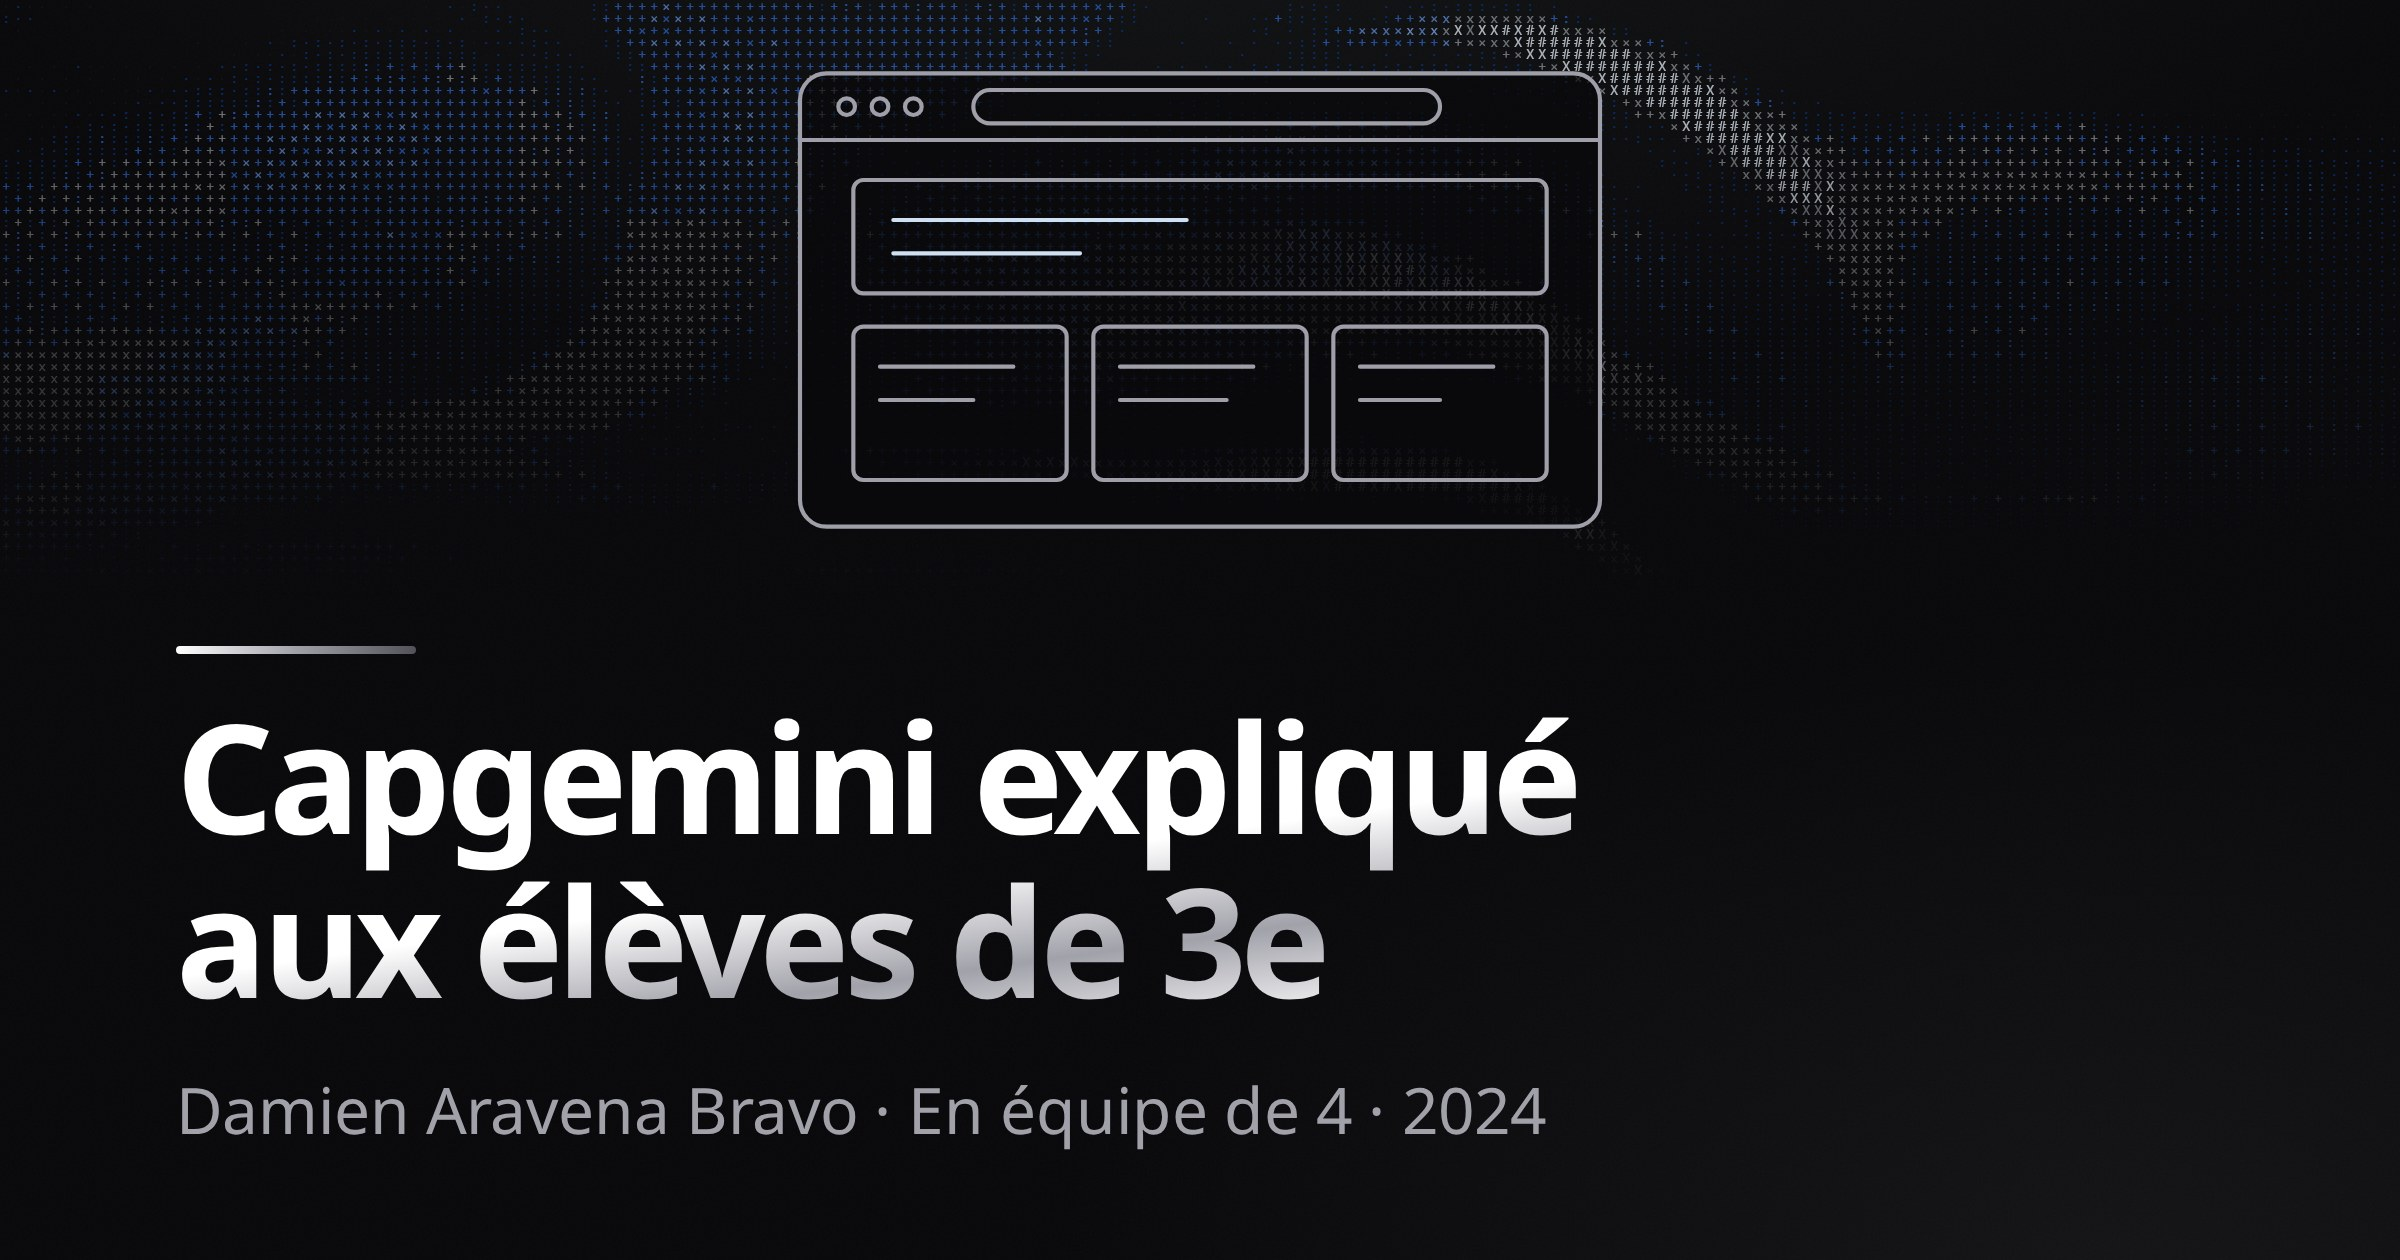
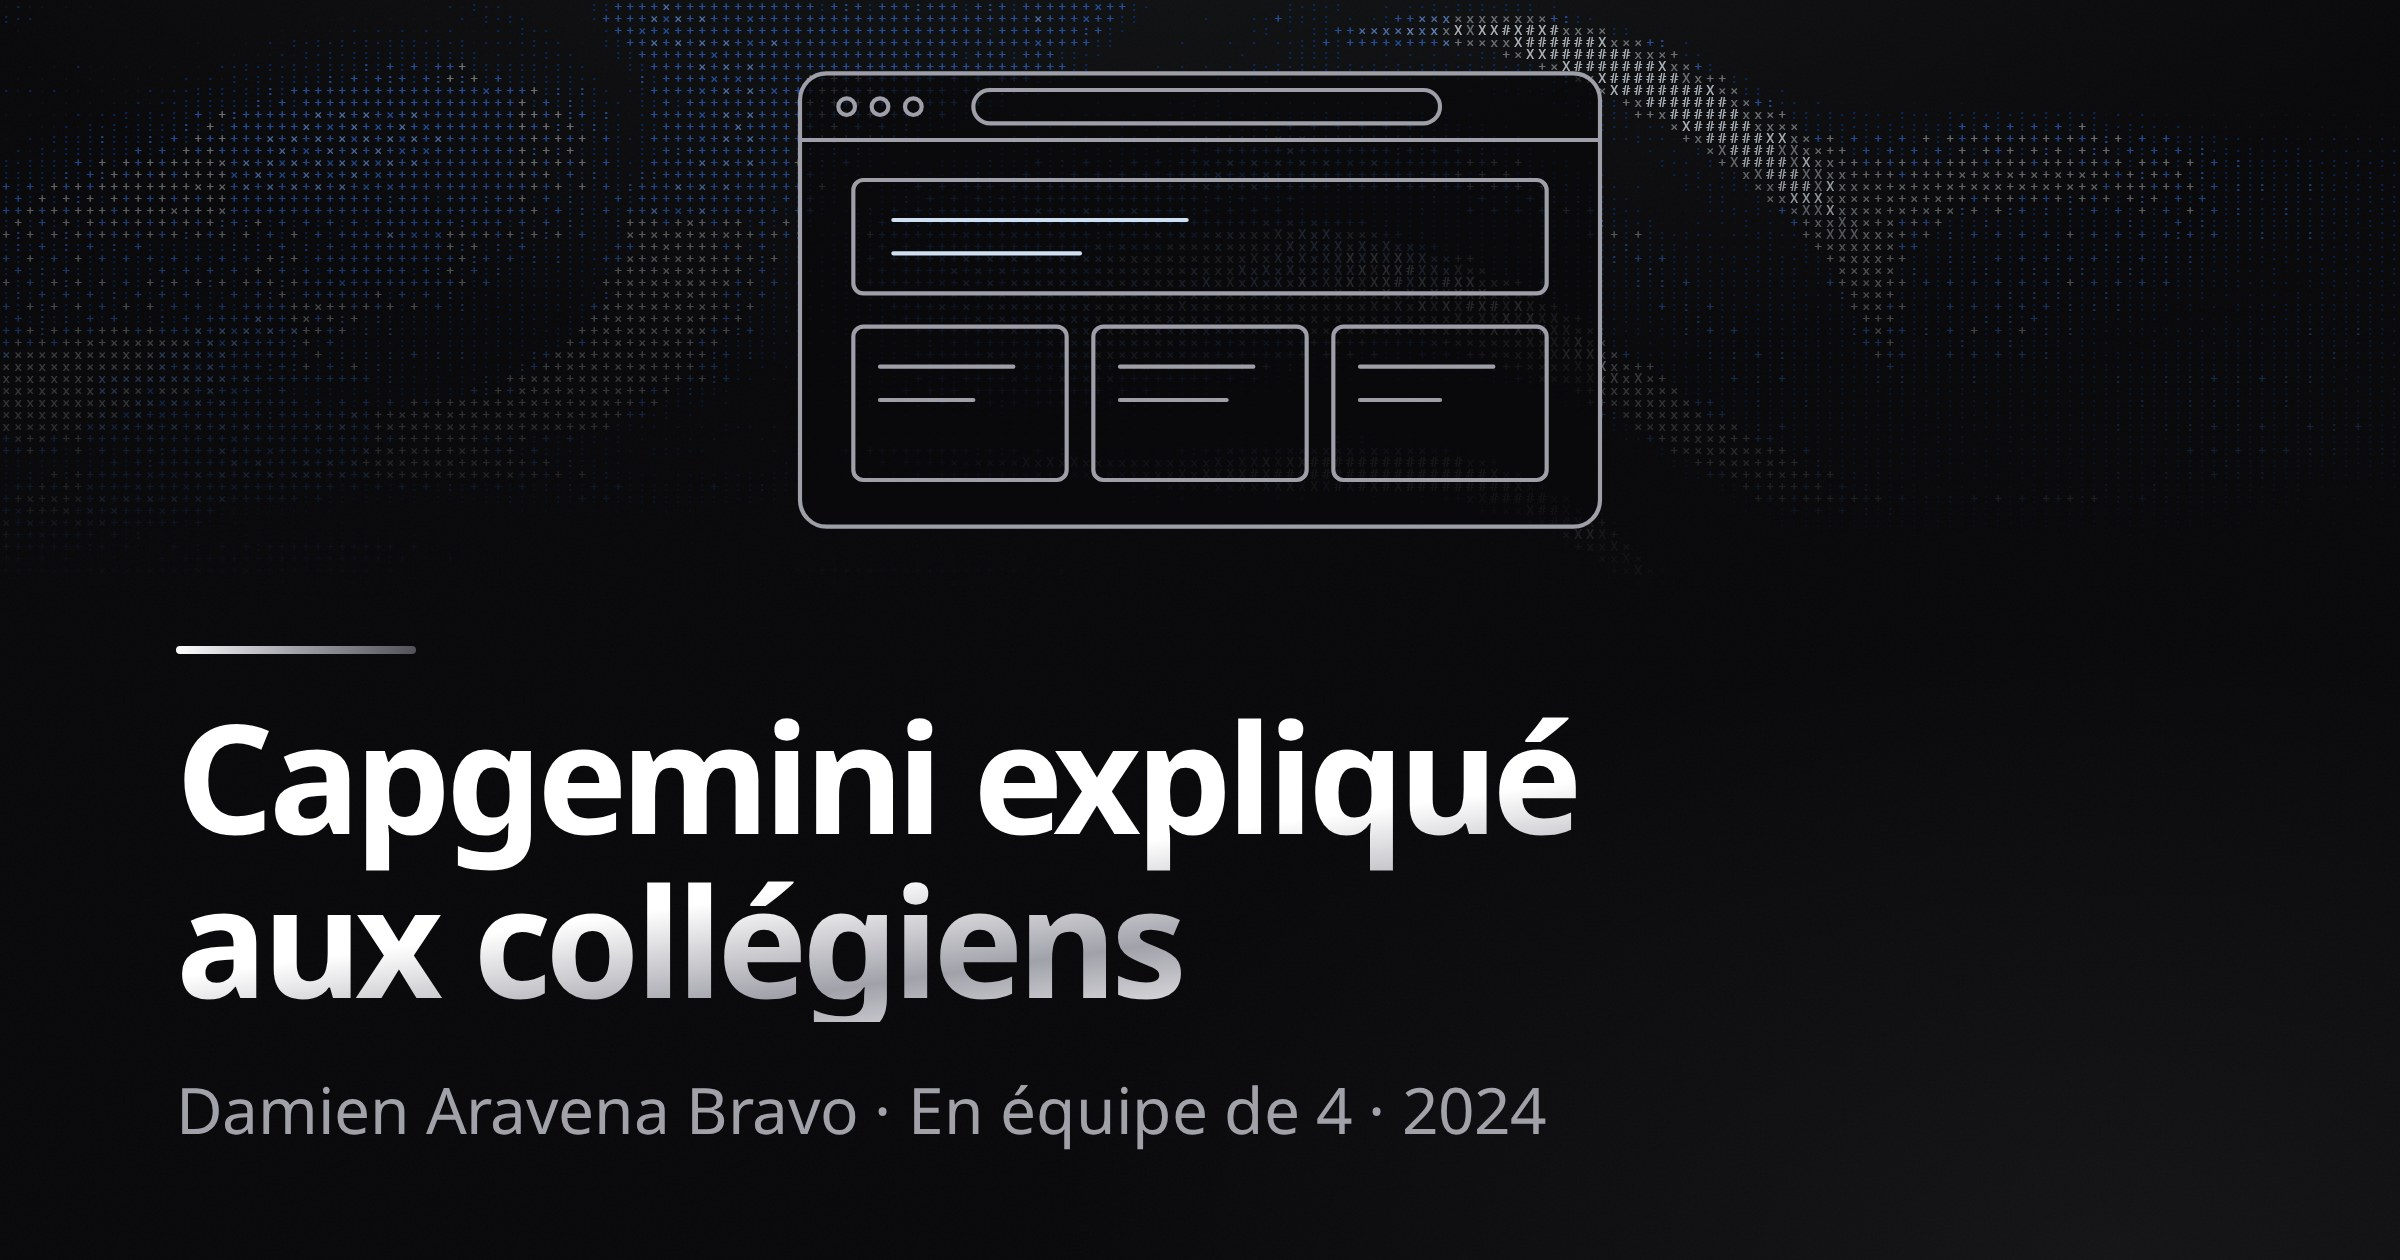
fix(content): use vous throughout and tidy the French wording
- Address the reader as vous in the contact section too ("Écrivez-moi"),
  like the legal, accessibility and colophon pages.
- Write ordinals in full ("deuxième année"); the Capgemini page becomes
  "Capgemini expliqué aux collégiens".
- Replace "mitigation" with "atténuation" and capitalise BUT Informatique.
- Name the footer link like the page it opens ("Comment ce site est fait",
  "How this site is built").
- Give the home projects section a description that stands on its own.

Changed region(s): [[0.1875, 0.681, 0.5625, 0.8357]]

diff --git a/src/data/ui.ts b/src/data/ui.ts
@@ -79,11 +79,11 @@ const fr = {
       {
         label: "Recherche",
         value:
-          `Stage du ${datesFr.start} au ${datesFr.end} (jusqu'au ${datesFr.extendedTo} possible), puis alternance en 3e année`,
+          `Stage du ${datesFr.start} au ${datesFr.end} (jusqu'au ${datesFr.extendedTo} possible), puis alternance en troisième année`,
       },
       {
         label: "Formation",
-        value: "BUT Informatique, 2e année · IUT2 Grenoble",
+        value: "BUT Informatique, deuxième année · IUT2 Grenoble",
       },
       { label: "Métier visé", value: "Développeur web, et plus largement développeur d'applications" },
       { label: "Mobilité", value: "Grenoble et alentours, en transports en commun" },
@@ -121,7 +121,7 @@ const fr = {
 
   projects: {
     previewTitle: "Mes projets",
-    previewDescription: "Ces compétences se retrouvent dans les projets menés durant ma formation.",
+    previewDescription: "Une sélection de mes projets, menés en cours ou sur mon temps libre.",
     seeAll: "Voir tous les projets",
     listTitle: "Tous mes projets",
     listDescription:
@@ -225,7 +225,7 @@ const fr = {
   contact: {
     title: "Me contacter",
     description:
-      `Je recherche un stage de 10 à 12 semaines, du ${datesFr.start} au ${datesFr.end}, prolongeable jusqu'au ${datesFr.extendedTo}, pour valider ma deuxième année de BUT Informatique. Idéalement à Grenoble, mais je peux aussi me déplacer dans les environs. Une question, une opportunité ? Écris-moi.`,
+      `Je recherche un stage de 10 à 12 semaines, du ${datesFr.start} au ${datesFr.end}, prolongeable jusqu'au ${datesFr.extendedTo}, pour valider ma deuxième année de BUT Informatique. Idéalement à Grenoble, mais je peux aussi me déplacer dans les environs. Une question, une opportunité ? Écrivez-moi.`,
     email: "Envoyer un e-mail",
     /*
      * Pour qui n'a pas de client mail configuré : le lien `mailto:` n'ouvre
@@ -400,7 +400,7 @@ const fr = {
     sitemap: "Plan du site",
     legal: "Mentions légales",
     accessibility: "Accessibilité",
-    colophon: "Comment c'est fait",
+    colophon: "Comment ce site est fait",
   },
 };
 
@@ -494,7 +494,7 @@ const en = {
 
   projects: {
     previewTitle: "My projects",
-    previewDescription: "These skills come together in the projects I carried out during my studies.",
+    previewDescription: "A selection of my projects, from coursework and my own time.",
     seeAll: "See all projects",
     listTitle: "All my projects",
     listDescription:
@@ -744,7 +744,7 @@ const en = {
     sitemap: "Site map",
     legal: "Legal notice",
     accessibility: "Accessibility",
-    colophon: "How it's built",
+    colophon: "How this site is built",
   },
 } satisfies Dictionary;
 

diff --git a/src/data/career.ts b/src/data/career.ts
@@ -36,7 +36,7 @@ export const experiences: CareerEntry[] = withFrenchSpacing([
     location: "Grenoble et alentours",
     period: "Avril – juin 2027",
     description:
-      `Stage de fin de 2e année de BUT, de 10 à 12 semaines : du ${datesFr.start} au ${datesFr.end}, prolongeable jusqu'au ${datesFr.extendedTo}. Je cherche une entreprise, de préférence en développement web.`,
+      `Stage de fin de deuxième année de BUT, de 10 à 12 semaines : du ${datesFr.start} au ${datesFr.end}, prolongeable jusqu'au ${datesFr.extendedTo}. Je cherche une entreprise, de préférence en développement web.`,
     icon: "calendar",
     upcoming: true,
     project: "stage-2027",

diff --git a/tests/components/ui.test.ts b/tests/components/ui.test.ts
@@ -280,7 +280,7 @@ describe("Footer", () => {
       ["Plan du site", "/portfolio/sitemap/"],
       ["Mentions légales", "/portfolio/legal/"],
       ["Accessibilité", "/portfolio/accessibility/"],
-      ["Comment c'est fait", "/portfolio/colophon/"],
+      ["Comment ce site est fait", "/portfolio/colophon/"],
     ]);
   });
 

diff --git a/src/content/projects/musigma.md b/src/content/projects/musigma.md
@@ -57,7 +57,7 @@ festivals de musique et appelé l'application **Musigma**.
 La [note de cadrage](https://github.com/aravenad/musigma/blob/master/conception/note-de-cadrage.pdf) posait les besoins fonctionnels, sous forme de cas
 d'utilisation classés par priorité, et les besoins non fonctionnels. Nous y
 avons analysé douze risques, de la mésentente dans l'équipe à la panne d'un
-outil, chacun noté avant et après mitigation, puis classés dans une matrice de
+outil, chacun noté avant et après atténuation, puis classés dans une matrice de
 criticité. Les rôles étaient répartis avec la méthode RACI. L'équipe
 communiquait sur Discord, planifiait sur Asana et partageait le code sur le
 GitLab de l'université.

diff --git a/src/content/projects/stage-2027.md b/src/content/projects/stage-2027.md
@@ -1,6 +1,6 @@
 ---
 title: "Stage de développement"
-summary: "Stage de 10 à 12 semaines au printemps 2027, pour valider ma 2e année de BUT. Entreprise et missions à venir."
+summary: "Stage de 10 à 12 semaines au printemps 2027, pour valider ma deuxième année de BUT. Entreprise et missions à venir."
 tags: []
 kind: "internship"
 status: "a-venir"
@@ -21,7 +21,7 @@ prolongation possible jusqu'au 9 juillet.
   type d'application.
 - Une entreprise à Grenoble ou dans ses alentours, accessible en transports en
   commun.
-- Idéalement, la possibilité de poursuivre en alternance pendant ma 3e année.
+- Idéalement, la possibilité de poursuivre en alternance pendant ma troisième année.
 
 ## À venir
 

diff --git a/src/content/projects/dauphineo.md b/src/content/projects/dauphineo.md
@@ -58,7 +58,7 @@ pitch et une rétrospective en anglais.
 Le premier dossier comparait Dauphinéo à TripAdvisor, Airbnb Expériences et
 Booking : aucun ne réunissait fiches détaillées, recommandations, réservation
 de guides et avis. Nous y avons analysé les contraintes et les risques du
-projet, chacun noté avant et après mitigation, réparti les rôles avec une
+projet, chacun noté avant et après atténuation, réparti les rôles avec une
 matrice RACI et décrit trois personas : une personne âgée, une famille et
 une personne à mobilité réduite. L'équipe communiquait sur Discord, suivait ses
 tâches dans un tableau Kanban sur Notion et partageait le code sur le GitLab de

diff --git a/src/content/projects/arrow-block.md b/src/content/projects/arrow-block.md
@@ -30,7 +30,7 @@ learned:
 ## Contexte
 
 Arrow Block est un projet personnel, commencé en 2026 en parallèle de ma
-2e année de BUT. C'est un jeu de réflexion en 3D : une forme faite de cubes
+deuxième année de BUT. C'est un jeu de réflexion en 3D : une forme faite de cubes
 fléchés, qu'il faut défaire en lançant les cubes dans le bon ordre. Un cube
 part dans le sens de sa flèche ; s'il en heurte un autre, le joueur perd un
 cœur.

diff --git a/src/content/projects/poste-debian.md b/src/content/projects/poste-debian.md
@@ -14,7 +14,7 @@ ac: ["AC13.01", "AC13.02", "AC13.03"]
 
 ## Contexte
 
-Projet individuel de BUT informatique : installer et configurer un poste de
+Projet individuel de BUT Informatique : installer et configurer un poste de
 travail sous Debian, destiné au développement logiciel. Il couvrait la mise en
 place du système d'exploitation, l'installation des outils de développement et
 la gestion des paquets.

diff --git a/src/content/projects/site-capgemini.md b/src/content/projects/site-capgemini.md
@@ -1,5 +1,5 @@
 ---
-title: "Capgemini expliqué aux élèves de 3e"
+title: "Capgemini expliqué aux collégiens"
 summary: "Recueil de besoins puis réalisation d'un site sobre présentant Capgemini à des élèves de troisième, repris et enrichi en 2026."
 tags: ["HTML", "CSS", "Git", "GitHub"]
 kind: "website"
